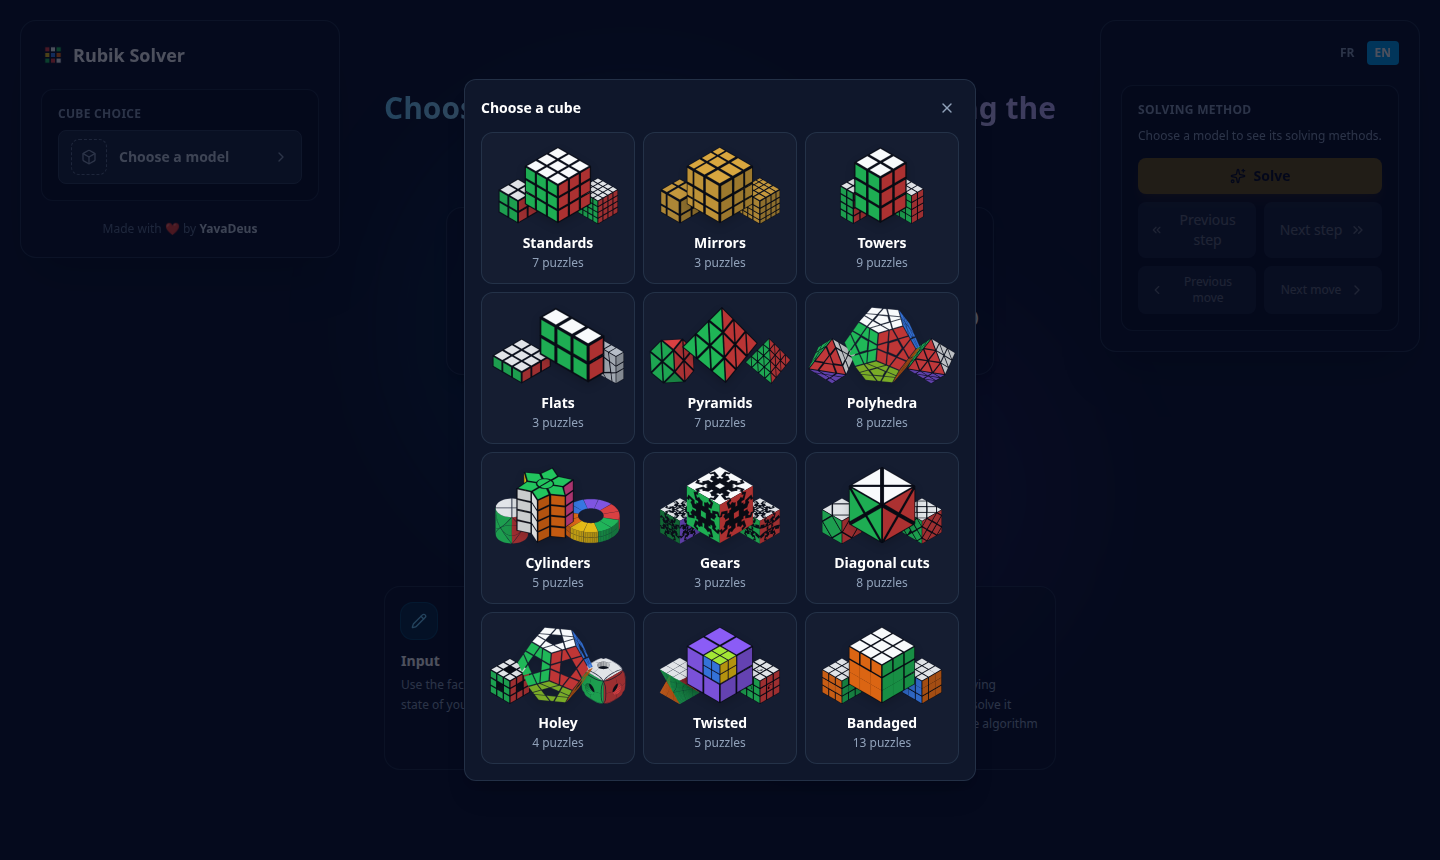
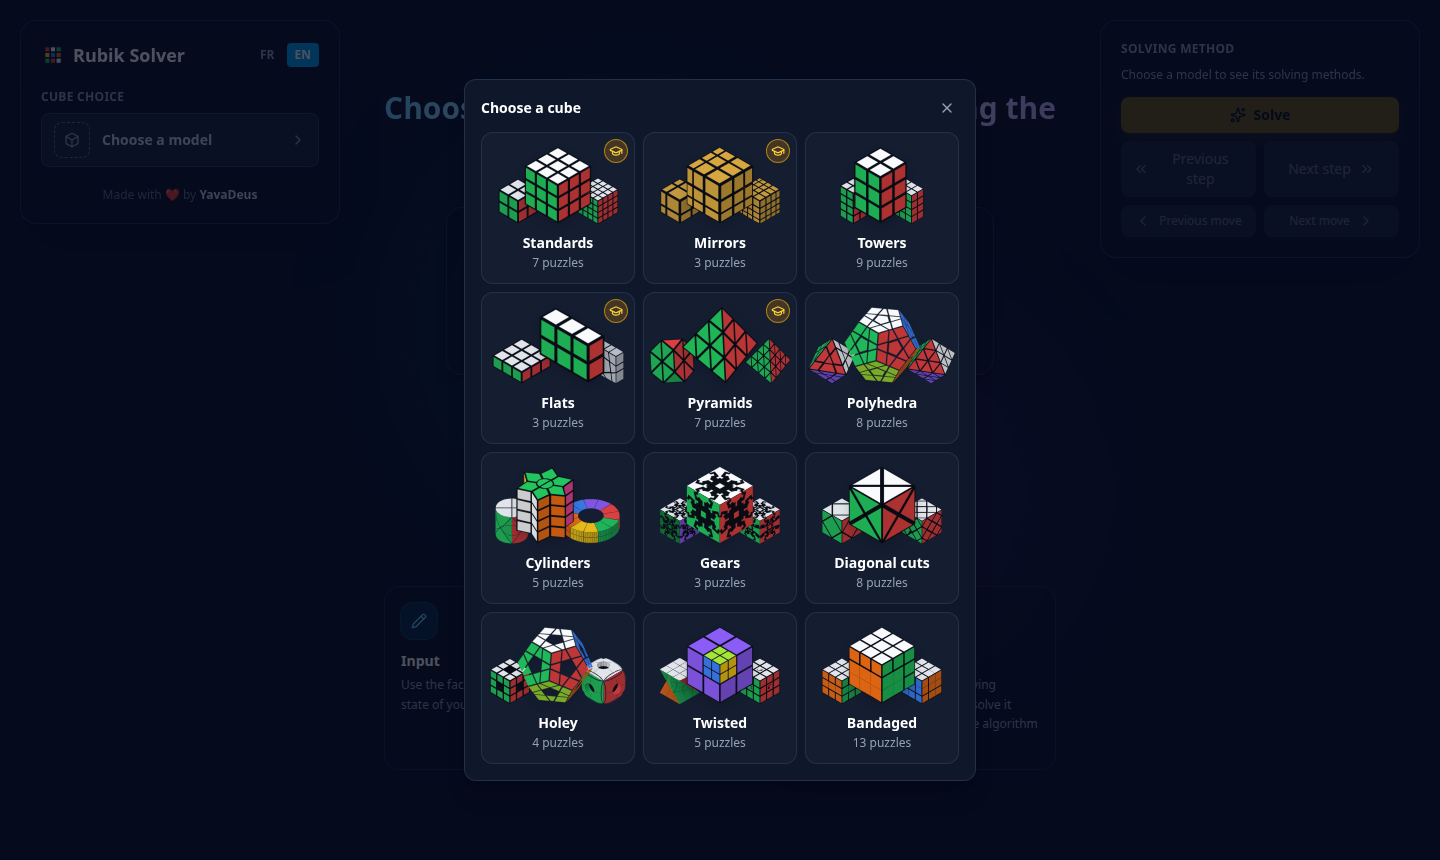
check

diff --git a/src/lib/tutorials/flat/ghost.ts b/src/lib/tutorials/flat/ghost.ts
@@ -3,7 +3,7 @@ import { FACE_NORMAL, vecKey } from '../../core/geometry'
 import type { HoldFrame } from '../../core/hold'
 import { allTurnsOf } from '../../core/moveSet'
 import { simplifyMoves } from '../../core/moves'
-import { atHome, sameAt } from '../../core/pieces'
+import { atHome, colorsOf, sameAt } from '../../core/pieces'
 import type { Cube, Cubie, GhostMove, Vec3 } from '../../core/types'
 import { aroundGhost, CYCLE_CORNERS, FLIP_EDGES, TURN_CORNERS } from '../../methods/flat/ghost'
 import { GHOST_SLOTS, ghostSlot, isCornerSlot } from '../../puzzles/flat/ghost'
@@ -37,8 +37,19 @@ function pieceKind(cubie: Cubie): string {
   return isCornerSlot(cubie.position) ? 'corner' : 'edge'
 }
 
-/** The piece solved at slot `m`. */
+/** The piece solved at slot `m`, by its index there. */
 const pieceAt = (m: number) => SOLVED.findIndex((c) => sameAt(c.position, GHOST_SLOTS[m]!))
+
+/** What a piece is, whatever its index (an entered state orders them its
+ *  own way): its kind and its colors (an edge and a corner may share
+ *  theirs). */
+const identityOf = (c: Cubie) => `${pieceKind(c)}:${colorsOf(c)}`
+const SOLVED_IDS = SOLVED.map(identityOf)
+/** A piece's index in the solved puzzle (its legend's, its pictures'). */
+const solvedIndex = (c: Cubie) => SOLVED_IDS.indexOf(identityOf(c))
+/** The index in `cube` of the piece solved at slot `m`. */
+const found = (cube: Cube, m: number) =>
+  cube.findIndex((c) => identityOf(c) === SOLVED_IDS[pieceAt(m)])
 
 /** Corners A to E and edges 1 to 5, clockwise from the top. */
 const CORNER_SLOTS = [1, 3, 5, 7, 9]
@@ -87,23 +98,28 @@ function stage(
   placed: (cube: Cube, piece: number, slot: Vec3) => boolean,
 ): PieceStage {
   const target = (m: number): Target => {
-    const piece = pieceAt(m)
     const slot = GHOST_SLOTS[m]!
-    return { piece: () => piece, slot, placed: (cube) => placed(cube, piece, slot) }
+    return {
+      piece: (cube) => found(cube, m),
+      slot,
+      placed: (cube) => placed(cube, found(cube, m), slot),
+    }
   }
   // A turn and a formula starting with the same turn cancel where they
   // meet (U2 then U2 R2 U2 R2): merged, the formula plays what it does.
   const formula = (cube: Cube, pick: TutorialPick, kept: Kept) => {
-    const found = searchFormulas(
+    // Its own place: placed there; another's: there.
+    const own = found(cube, ghostSlot(pick.slot)!) === pick.piece
+    const moves = searchFormulas(
       cube,
       formulas,
       (c) =>
         kept.targetsKept(c) &&
         sameAt(c[pick.piece]!.position, pick.slot) &&
-        (pieceAt(ghostSlot(pick.slot)!) !== pick.piece || placed(c, pick.piece, pick.slot)),
+        (!own || placed(c, pick.piece, pick.slot)),
       { depth: 4, key: keyOf(kind) },
     )
-    return found && simplifyMoves(found)
+    return moves && simplifyMoves(moves)
   }
   return {
     kind: 'pieces',
@@ -140,7 +156,7 @@ export const GHOST_TUTORIAL = tutorialOf({
   pieceKind,
   // The hold told by the corner top left as it stands: every piece's pose
   // has its own shape, so its picture says which way up and which side.
-  legend: { labels: LABELS, turned, anchor: topLeft },
+  legend: { labels: LABELS, identify: solvedIndex, turned, anchor: topLeft },
   glossary: [GHOST_CORNER, GHOST_EDGE, GHOST_TURN],
   stages: [
     stage(

diff --git a/tests/unit/tutorials/ghost.test.ts b/tests/unit/tutorials/ghost.test.ts
@@ -2,6 +2,7 @@ import { describe, expect, it } from 'vitest'
 import { isSolved, solvedCube } from '@/lib/core/cube'
 import { scrambleTurns } from '@/lib/core/moves'
 import { applyMoves } from '@/lib/core/turn'
+import { buildCube, cubeToEdit } from '@/lib/editor/edit'
 import { tutorialFor } from '@/lib/tutorials/registry'
 import { TUTORIAL_EN } from '@/i18n/en/tutorial'
 import { TUTORIAL_FR } from '@/i18n/fr/tutorial'
@@ -48,6 +49,18 @@ describe('Floppy Ghost tutorial', () => {
     expect(SOLVED.some((c) => legend.turned(c))).toBe(false)
     const flipped = applyMoves(SOLVED, [{ side: 'U' }])
     expect(flipped.filter((c) => legend.turned(c))).toHaveLength(3)
+  })
+
+  it('tells its pieces by what they are: an entered state, its pieces in its own order', () => {
+    const scrambled = applyMoves(SOLVED, scrambleTurns('ghost', 15, seededRng(11), SOLVED))
+    const entered = buildCube(cubeToEdit(scrambled), 'ghost')
+    expect(entered.map((c) => c.position.join())).not.toEqual(
+      scrambled.map((c) => c.position.join()),
+    )
+    expect(isSolved(walk(tutorial, entered, 40).cube)).toBe(true)
+    // Each piece its own: the legend finds every one, once.
+    const found = entered.map((c) => tutorial.legend!.identify(c))
+    expect(new Set(found).size).toBe(SOLVED.length)
   })
 
   it('says its own stages and words in both languages', () => {

diff --git a/src/lib/teach/tutorial.ts b/src/lib/teach/tutorial.ts
@@ -61,9 +61,12 @@ export interface Term {
  * number), and shown in pictures (its front and its back), in a legend
  * after the words and beside its name in the instructions. */
 export interface Legend {
-  /** Each piece's label, by its index (stable from turn to turn), in the
+  /** Each piece's label, by its index in the solved puzzle, in the
    *  legend's order. */
   readonly labels: readonly { readonly piece: number; readonly label: string }[]
+  /** A piece's index in the solved puzzle, wherever it stands and however
+   *  the state orders its pieces (an entered one, its own way). */
+  readonly identify: (cubie: Cubie) => number
   /** Whether a piece shows its back (turned over): pictured so. */
   readonly turned: (cubie: Cubie) => boolean
   /** The piece that tells how to hold the puzzle when no color can, read

diff --git a/tests/branding/branding.spec.ts b/tests/branding/branding.spec.ts
@@ -31,13 +31,14 @@ async function scrambled(page: Page, address: string) {
 test('share preview and README banner', async ({ page }) => {
   await page.goto('/#/en')
   const count = Number(await homeHeading(page).locator('span').textContent())
-  // One drawing per category: the first of each card of the picker.
+  // One drawing per category: the first of each card of the picker (its
+  // tutorial badge, an icon, aside).
   await page.getByRole('button', { name: /^Cube choice/ }).click()
   const cards = page.getByRole('button', { name: /, \d+ puzzles?$/ })
   const icons = await Promise.all(
     (await cards.all()).map((card) =>
       card
-        .locator('svg')
+        .locator('svg:not(.lucide)')
         .first()
         .evaluate((svg) => svg.outerHTML),
     ),

diff --git a/src/components/tutorial/Instructions.tsx b/src/components/tutorial/Instructions.tsx
@@ -45,7 +45,8 @@ export function Instructions({ view, busy }: { view: TutorialView; busy: boolean
   const legend = view.tutorial?.legend
   const name = (index: number) => {
     const kind = view.tutorial?.pieceKind(cube[index]!) ?? 'piece'
-    const label = legend?.labels.find((l) => l.piece === index)?.label
+    const solved = legend?.identify(cube[index]!)
+    const label = legend?.labels.find((l) => l.piece === solved)?.label
     return label !== undefined
       ? tx.labelled(kind, label)
       : tx.piece(

diff --git a/src/components/tutorial/Pictured.tsx b/src/components/tutorial/Pictured.tsx
@@ -64,7 +64,7 @@ export function Pictured({
         >
           <PiecePicture
             shape={shape}
-            piece={piece}
+            piece={legend.identify(cube[piece]!)}
             back={legend.turned(cube[piece]!)}
             className="block size-8"
           />

diff --git a/AMELIORATIONS.md b/AMELIORATIONS.md
@@ -3,19 +3,6 @@
 Ce qui marche aujourd'hui mais mériterait mieux, avec les pistes déjà
 envisagées.
 
-## Tutoriel : apprendre à déplacer une pièce
-
-**Idée.** Sur un modèle donné, un mode d'apprentissage guidé : l'app désigne
-une pièce et l'endroit où l'amener (ou la façon de la tourner), l'utilisateur
-cherche les coups lui-même, avec des indices gradués (la couche à tourner, puis
-le coup, puis la formule et son effet expliqué), et l'app vérifie à chaque coup
-qu'il ne défait pas ce qui est déjà en place.
-
-**Pistes.** Les briques existent : les objectifs des étapes (`StepSpec.goal`),
-les formules de chaque méthode avec leur effet testé, et la recherche par
-pièces (`solvePieces`) pour proposer le coup suivant. Commencer par les étapes
-intuitives (croix, premiers coins) du 3x3 et du 2x2, puis par les 3-cycles.
-
 ## Tutoriel : les flèches sur un cube miroir
 
 **Constat.** Sur un miroir, la flèche du tutoriel part du centre de la case
@@ -43,15 +30,6 @@ de positions d'une pièce) puis ne bouge plus.
 **Pas mesuré** : la mémoire du worker de résolution, qui garde ses tables
 (formules du Megaminx et du Crystal : quelques dizaines de Mo, une fois par
 liste de formules, donc bornées) ; une session de plusieurs heures.
-
-## Mobile : reprendre l'interface
-
-**Constat.** Le mode mobile (panneau repliable, puzzle empilé au-dessus de la
-saisie) marche, mais il a de nombreuses lacunes, jamais passées en revue.
-
-**Piste.** Faire le tour de l'app sur un petit écran (accueil, sélecteur,
-pad de coups, guide, saisie et ses phases, résolution), lister ce qui gêne,
-puis reprendre la mise en page écran par écran.
 
 ## Les puzzles « Rainbow » : la coupe dans le coup
 
